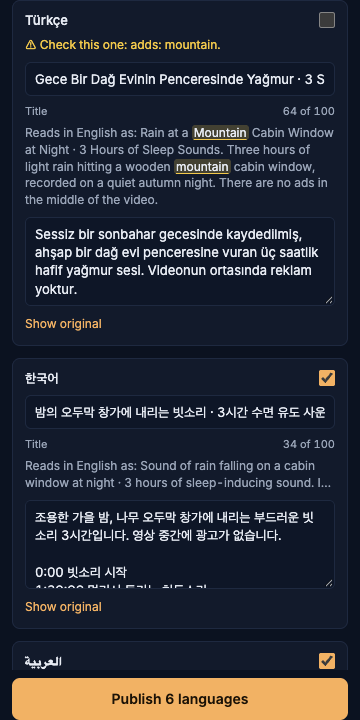
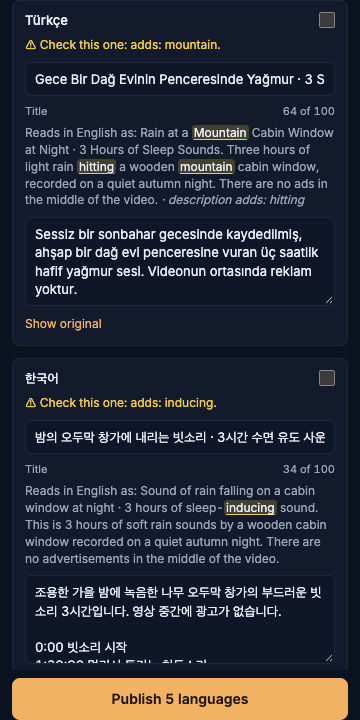
README and screenshots for the read-back rules and Tick all

diff --git a/README.md b/README.md
@@ -36,9 +36,9 @@ Chrome, Studio tab
 For each language the helper does five things:
 
 1. **Protect.** Links, timestamps, hashtags, @handles, e-mail addresses and your keep words become placeholders such as `⟦1⟧`, so the model cannot change them.
-2. **Translate.** One call per language to the local model, with the description sent as a list of lines and a JSON schema that fixes the line count.
+2. **Translate.** One call per language to the local model, with the description sent as a list of lines and a JSON schema that fixes the line count. Lines you wrapped in the middle of a sentence are joined first, so the model translates the sentence whole; paragraphs, timestamps, links, hashtags, list items and short lines keep their own lines.
 3. **Check.** Every placeholder present once and on its own line, blank lines where the original has them, the title at most 100 characters, the description within YouTube's limit, no `<` or `>`, no link or hashtag the original does not have, the right script for the language, no Latin word added to a translation in another script, and a one-word language check for Latin-script languages. A failed check retries twice with the exact problem; after that the language is marked **Check this one** with the reason, and it is never published unless you tick it yourself.
-4. **Read it back.** The same model translates the new title and the first line of the description back into the video's language. The panel shows it under each title ("Reads in English as: ..."), so you can check the meaning of a language you cannot read. Words in the read-back that the original does not have are marked, and the language becomes Check this one with the reason, for example "adds: mountain".
+4. **Read it back.** The same model translates the new title and the first line of the description back into the video's language. The panel shows it under each title ("Reads in English as: ..."), so you can check the meaning of a language you cannot read. Words in the read-back that the original does not have are marked; a word added to the title makes the language Check this one with the reason, for example "adds: mountain".
 5. **Restore.** The placeholders go back to the original text, byte for byte.
 
 Publishing reads the video first and merges: languages the video lacks are added, translations Channel Tongues wrote earlier are updated, and anything else already on the video is kept unless you ask to replace it. The helper sends the complete set of translations (YouTube deletes any language left out), never the title, description or tags, then reads the video back to confirm. Undo puts the backup back the same way.
@@ -77,7 +77,7 @@ The helper uses `gemma4:26b` when you have downloaded it and `gemma4:e4b` otherw
 - YouTube's free daily allowance covers about 190 publishes a day. Channel Tongues stops at about 170 to leave room for reading, and says when the limit resets (midnight Pacific).
 - A Google project in Testing status signs you out after seven days; sign in again from the panel.
 - The model can still get the meaning wrong while passing every check: an ambiguous English phrase can come out in the wrong sense. Read before you publish. Small models drift more in rarer languages; when a check fails, the language is marked instead of published.
-- The read-back line is a second opinion from the same model, so it shares its blind spots. In our tests on 48 language runs it marked 15: 9 real or borderline changes (a "mountain" cabin in Turkish, a fishing "village" for a harbor in Korean) and 6 false alarms (words like "sound" or "shore" that the original only implies). It also costs about two seconds per language: twelve languages take about 25 seconds instead of 12. The word test runs for English originals; for other languages the line is shown and you judge it.
+- The read-back line is a second opinion from the same model, so it shares its blind spots. Only words added to the title untick a card; words found only in the description stay marked in the line ("description adds: ...") and the card stays ticked. A word that the read-backs of at least half the languages share (and at least three) is taken as the read-back's own wording, not a change, and is not marked: on one real video the read-back said "created" for "made" in 13 of 15 languages. On three sample videos in twelve languages, 5 of 36 cards were unticked this way: real changes such as a "mountain" cabin in Turkish, and false alarms such as "rain falling" in Korean. It costs about two seconds per language: twelve languages take about 25 seconds instead of 12. The word test runs for English originals; for other languages the line is shown and you judge it.
 - The video needs its "Title and description language" set in Studio before YouTube accepts translations. The panel tells you where.
 
 ## FAQ
